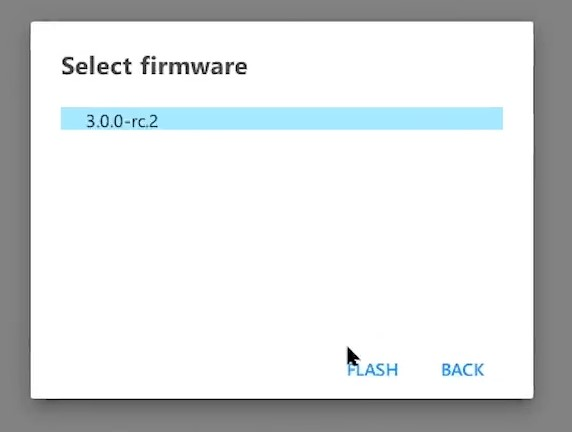
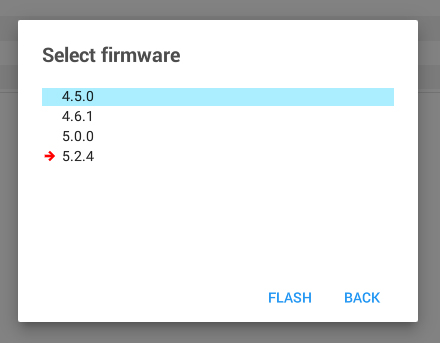
change DeviceUpdate_ru.cs

diff --git a/Assets/Tutorials/DeviceUpdate/DeviceUpdate_ru.cs b/Assets/Tutorials/DeviceUpdate/DeviceUpdate_ru.cs
@@ -27,8 +27,9 @@ partial class Tutorials : Scope {
             [$"3. Нажмите на кнопку в правом нижнем углу экрана и выберите пункт “Reflash firmware”"]
             [ReflashFirmware]
 
-            [$"4. Выберите нужную версию прошивки. И нажмите на Flash."]
+            [$"4. Текущая версия прошивки обозначена стрелкой. Выберите нужную версию прошивки. И нажмите на Flash."]
             [SelectFirmware]
+            [new Warning()[$"Во время обновления не отключайте устройство!"]]
 
             [$"5. Дождитесь конца установки."]
                    
